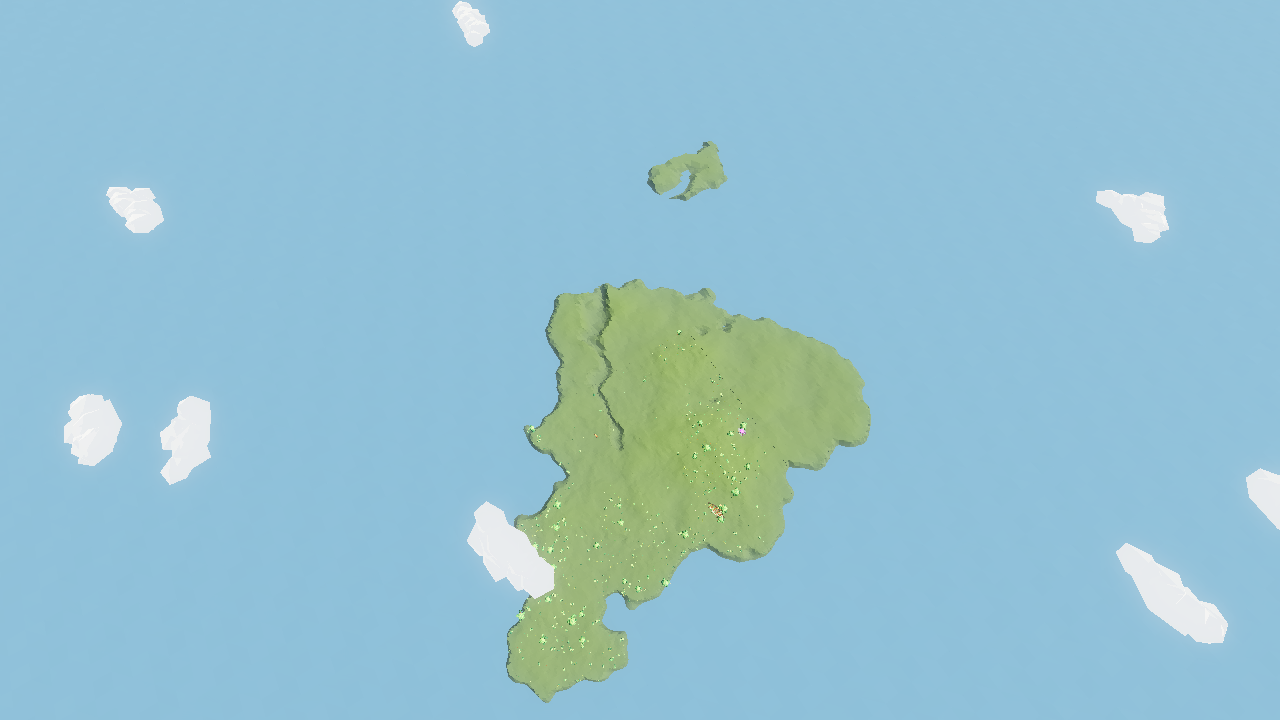
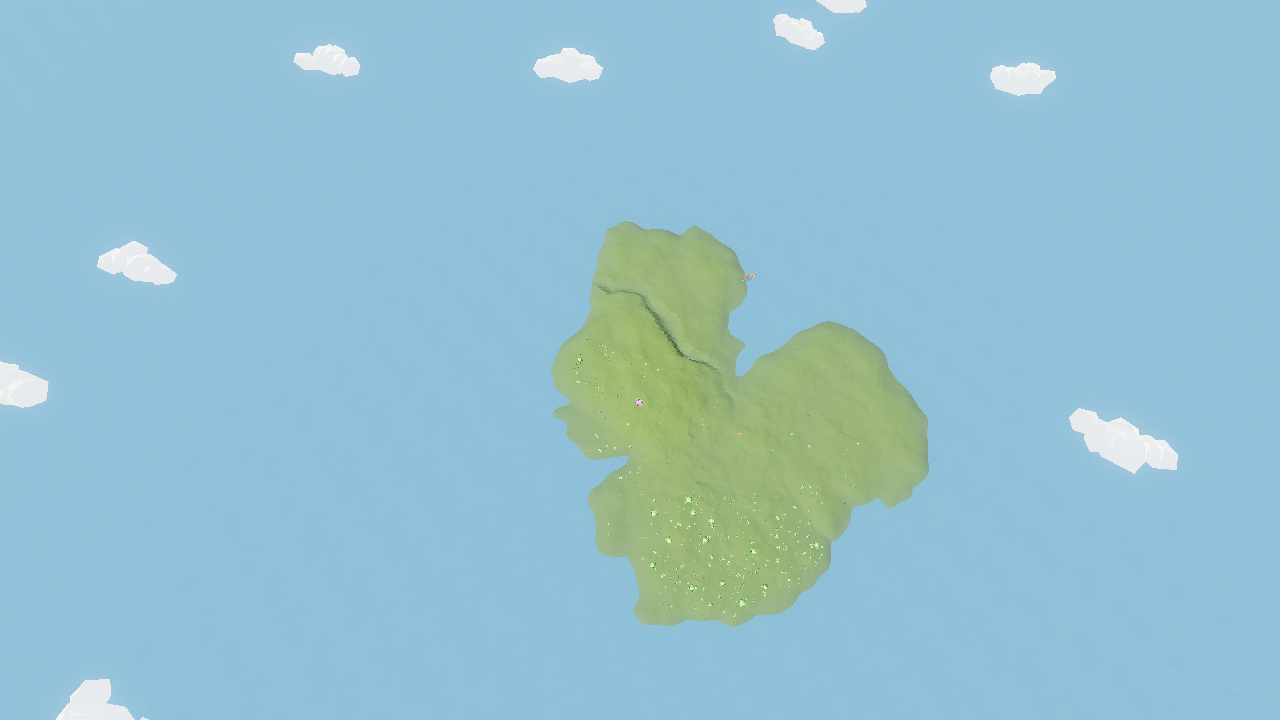
4.18: gradual coast — 71 degrees of cliff down to 48, shore run 4 m to 12 m
Sequoyah walked the island and the beach was a wall: measured across 5 seeds,
+2 m to -1 m in under 4 m of ground at up to 71 degrees, past the player's own
46-degree walkable limit. Four causes, not one: the falloff curve (cubic ->
S-curve), its width (0.70 -> 0.48), the sea-floor term (linear -> cubed, a
shelf you wade out on), and the coast jitter's FREQUENCY, which compresses the
taper into less ground no matter how gentle the curve is (halved; amplitude
untouched, so the coastline is as ragged as before). Plus one structural rule
replacing per-landmass special cases: the taper band is never narrower than
MIN_FALLOFF_BAND_M of real ground, so islets and small lobes get a beach too.

Island size and silhouette are preserved -- land ends where the surface crosses
sea level, which the curve change moves outward. chunk_stream's recorded seam
divergence re-measured (coast chunk, collapsed as intended); terrain, biome,
poi, resource_scatter, procedural_world, noise_reuse, biome_terrain 0 failures,
world_contract PASS both arms.

diff --git a/docs/DELEGATION.md b/docs/DELEGATION.md
@@ -124,6 +124,55 @@ no notice and costs the client ~19 s of rejoin attempts (that is F-322).
 54 PASS.
 
 
+### 2026-08-20 — 4.18: the coast is a beach, not a cliff — and WHY a gentle falloff curve is not enough on its own (quill5fa5c7)
+
+Sequoyah, after walking the sea-level island: "make the slope down to the water much more
+gradual, it's way too steep." Measured before touching anything, across 5 seeds: the whole
+transition from +2 m to −1 m happened in **under 4 m** of ground, at up to **71 degrees** — past
+the player's own 46-degree walkable limit (F-136), so stretches of coast could not be walked at
+all. After: worst 48 degrees, typical coast 32–37, and the shore run widened to ~12 m.
+
+**Four things were stacking, and only one of them was the obvious one.** If you ever retune a
+coast, this is the list to check, because fixing the curve alone got barely a third of the way:
+
+1. **The falloff CURVE.** `_radial_mask` returned `inv^3`, which leaves the plateau at three times
+   the average gradient and then flattens — every metre of relief was spent in the first stride of
+   the band. It is an S-curve now (`inv*inv*(3-2*inv)`, hand-written per this file's no-`pow()`
+   rule): flat leaving the plateau, flat arriving at the water.
+2. **The falloff WIDTH.** `FALLOFF_START_FRACTION` 0.70 → 0.48. Widening it does not shrink the
+   island — land ends where the surface crosses sea level, and the curve change moves that point
+   outward (~0.75 → ~0.79 of each lobe's radius) even though the taper starts earlier.
+3. **The SEA FLOOR term.** `OCEAN_FLOOR_DEPTH * (1 - mask)` is linear, so the seabed fell away at
+   full rate at the same place the land was already falling, and the two summed into the wall. It
+   is CUBED now — a shelf: shallow wade near shore, deep water offshore where depth is scenery.
+4. **The coast JITTER's frequency** (`COAST_FREQUENCY` halved, `SHAPE_WARP_FREQUENCY` eased). This
+   is the non-obvious one and it was worth ~20 degrees on its own: the jitter displaces the
+   shoreline radially, so where that field changes fast it COMPRESSES the taper into less ground.
+   A perfectly gentle curve still stands a wall up inside a fast-wobbling jitter. Amplitudes are
+   untouched, so the coastline is exactly as ragged — the wobbles are just longer.
+
+**And one structural rule replaced two special cases.** `_radial_mask`'s band is a fraction of the
+landmass's own radius, but now never narrower than `MIN_FALLOFF_BAND_M` (30 m) of real ground,
+capped at `MAX_FALLOFF_RADIUS_FRACTION` of it. Without that floor a small lobe or an islet gets a
+proportionally small horizontal budget while owing the same absolute relief — which is why, after
+the curve fix, every remaining steep shore the probe found was on an islet or the smallest lobe. A
+beach is a distance a player walks, not a percentage. (This subsumed a short-lived
+`ISLET_FALLOFF_FRACTION`; do not reintroduce per-landmass constants for this.)
+
+**How to re-measure.** The throwaway probe is not committed (deliberately — it is 60 lines and the
+numbers are here), but its shape is worth repeating: walk radial transects on several seeds, find
+the +2 m and −1 m crossings, report the worst per-metre gradient and the run width between them,
+and flag whether the worst sample sits inside `_river_channel()`'s corridor — a stream bank at 45
+degrees is terrain doing its job, a beach at 45 degrees is the bug, and without that flag you will
+chase the wrong one.
+
+**Knock-on, already handled:** `chunk_stream_check`'s recorded seam divergence collapsed 1.2134 →
+0.2196 m (its recorded chunk is a coast chunk, so this is the intended effect, not drift);
+island-wide worst 1.76 m against a 10.2 m skirt. Everything else green: terrain, biome, poi,
+resource_scatter, procedural_world, noise_reuse, biome_terrain all 0, world_contract PASS both
+arms.
+
+
 ### 2026-08-20 — 4.18 playtest round: sea-level island, a real ocean, streams not gorges, dressed biomes (quill5fa5c7)
 
 Sequoyah's first real playtest verdicts, all landed in one pass. If you touch terrain or scatter,
